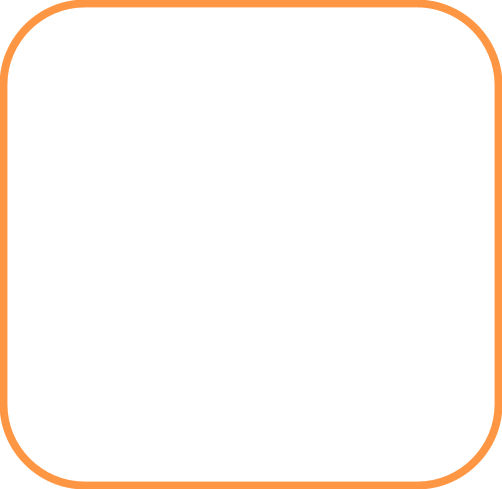
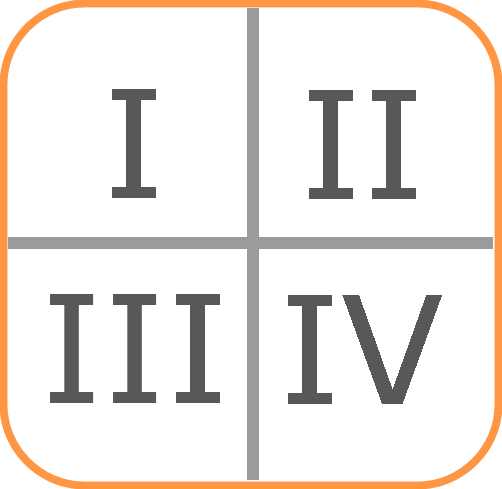
cleanup

diff --git a/apps/publishing_party/src/HomePage.tsx b/apps/publishing_party/src/HomePage.tsx
@@ -239,13 +239,13 @@ export function HomePage() {
       </Typography>
       <Typography
         variant="body1"
-        sx={{ lineHeight: 1.8, mb: 2, fontSize: '0.75rem' }}
+        sx={{ lineHeight: 1.8, mb: 2 }}
       >
-        This book is different from other books.
+        These books are different from other books.
       </Typography>
       <Typography
         variant="body1"
-        sx={{ lineHeight: 1.8, mb: 2, fontSize: '0.92rem' }}
+        sx={{ lineHeight: 1.8, mb: 2 }}
       >
         The mid-level at Spruce Street School worked in teams of three and four
         to create these stories. Each team imagined the theme of their story and
@@ -254,9 +254,9 @@ export function HomePage() {
       </Typography>
       <Typography
         variant="body1"
-        sx={{ lineHeight: 1.8, mb: 5, fontSize: '1.08rem' }}
+        sx={{ lineHeight: 1.8, mb: 5 }}
       >
-        In this story YOU, and you alone will encounter dangers, choices, and
+        In these stories YOU, and you alone will encounter dangers, choices, and
         peril, as that is part of the genre of Choose Your Own Adventure,
         otherwise known as CYOA!
       </Typography>

diff --git a/apps/publishing_party/src/games/index.ts b/apps/publishing_party/src/games/index.ts
@@ -315,7 +315,7 @@ export const games: Game[] = [
   },
   {
     id: 'mansion_mystery',
-    title: 'Mansion Mystery',
+    title: 'Murder at the Mansion',
     authors: authors('mansion_mystery', [
       { name: 'Eloise', bio: '' },
       { name: 'Evelyn', bio: '' },

diff --git a/README.md b/README.md
@@ -124,9 +124,6 @@ The app ships a [manifest](apps/publishing_party/public/manifest.webmanifest) an
 - Service worker + web app manifest for installability and offline play
 
 
-
 look in each book for additional images
-look into correct intros
 ensure logic is correct
-add fake images?
 update claude and readme